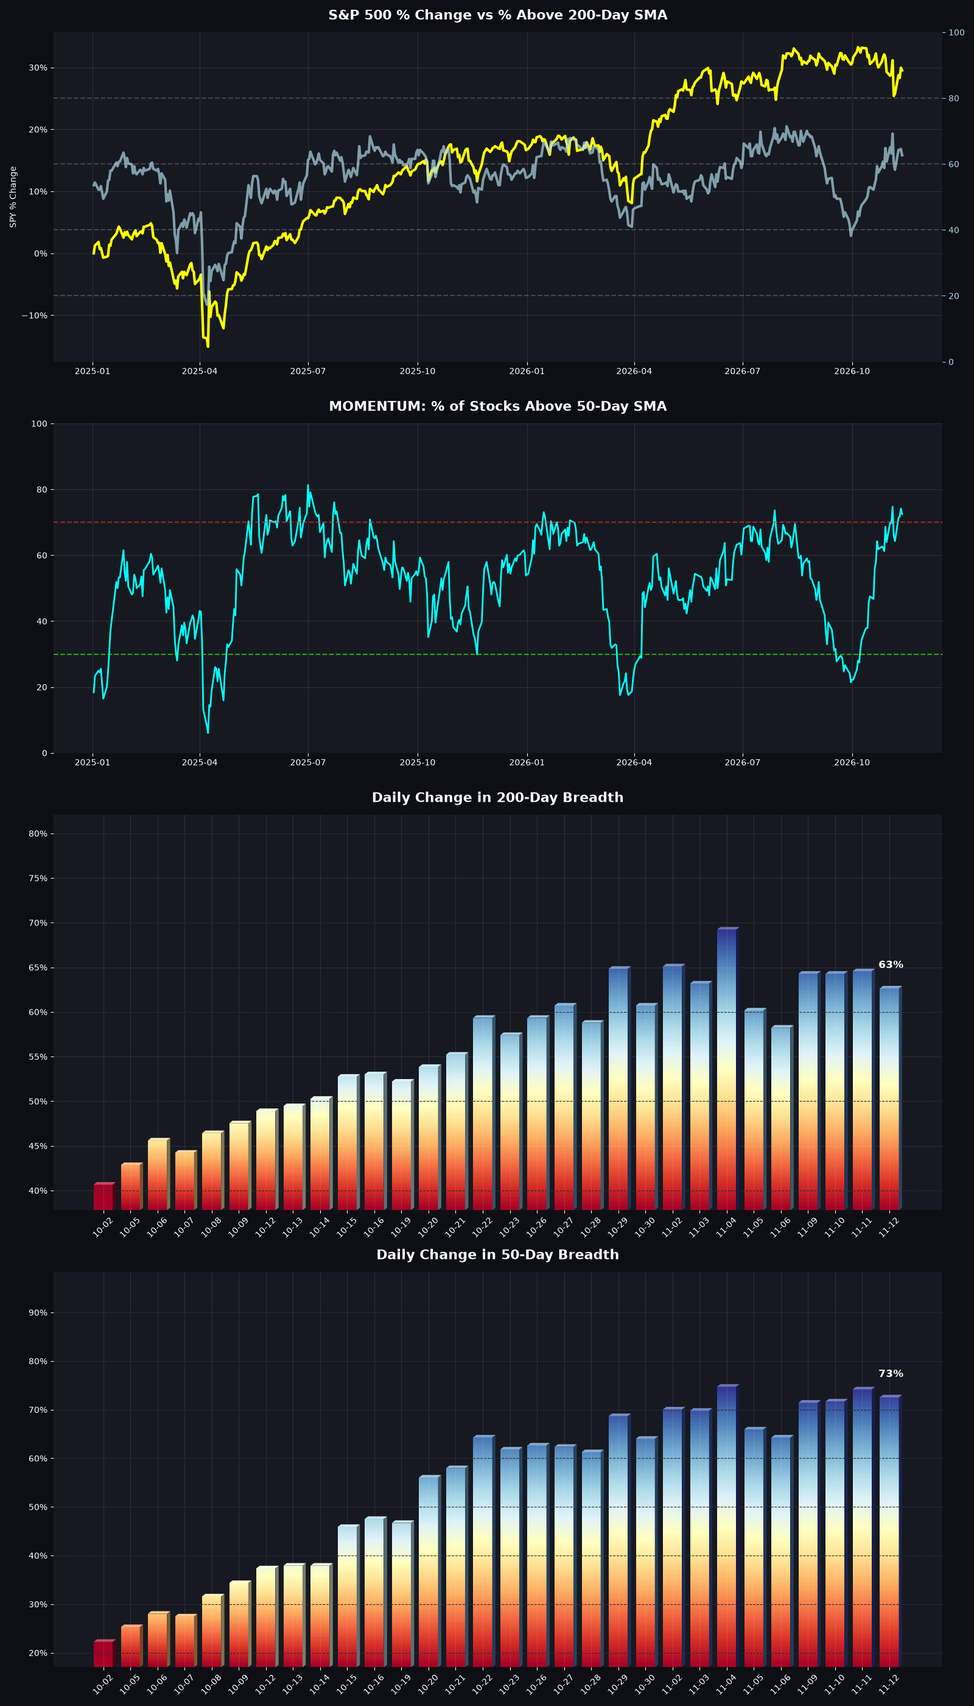
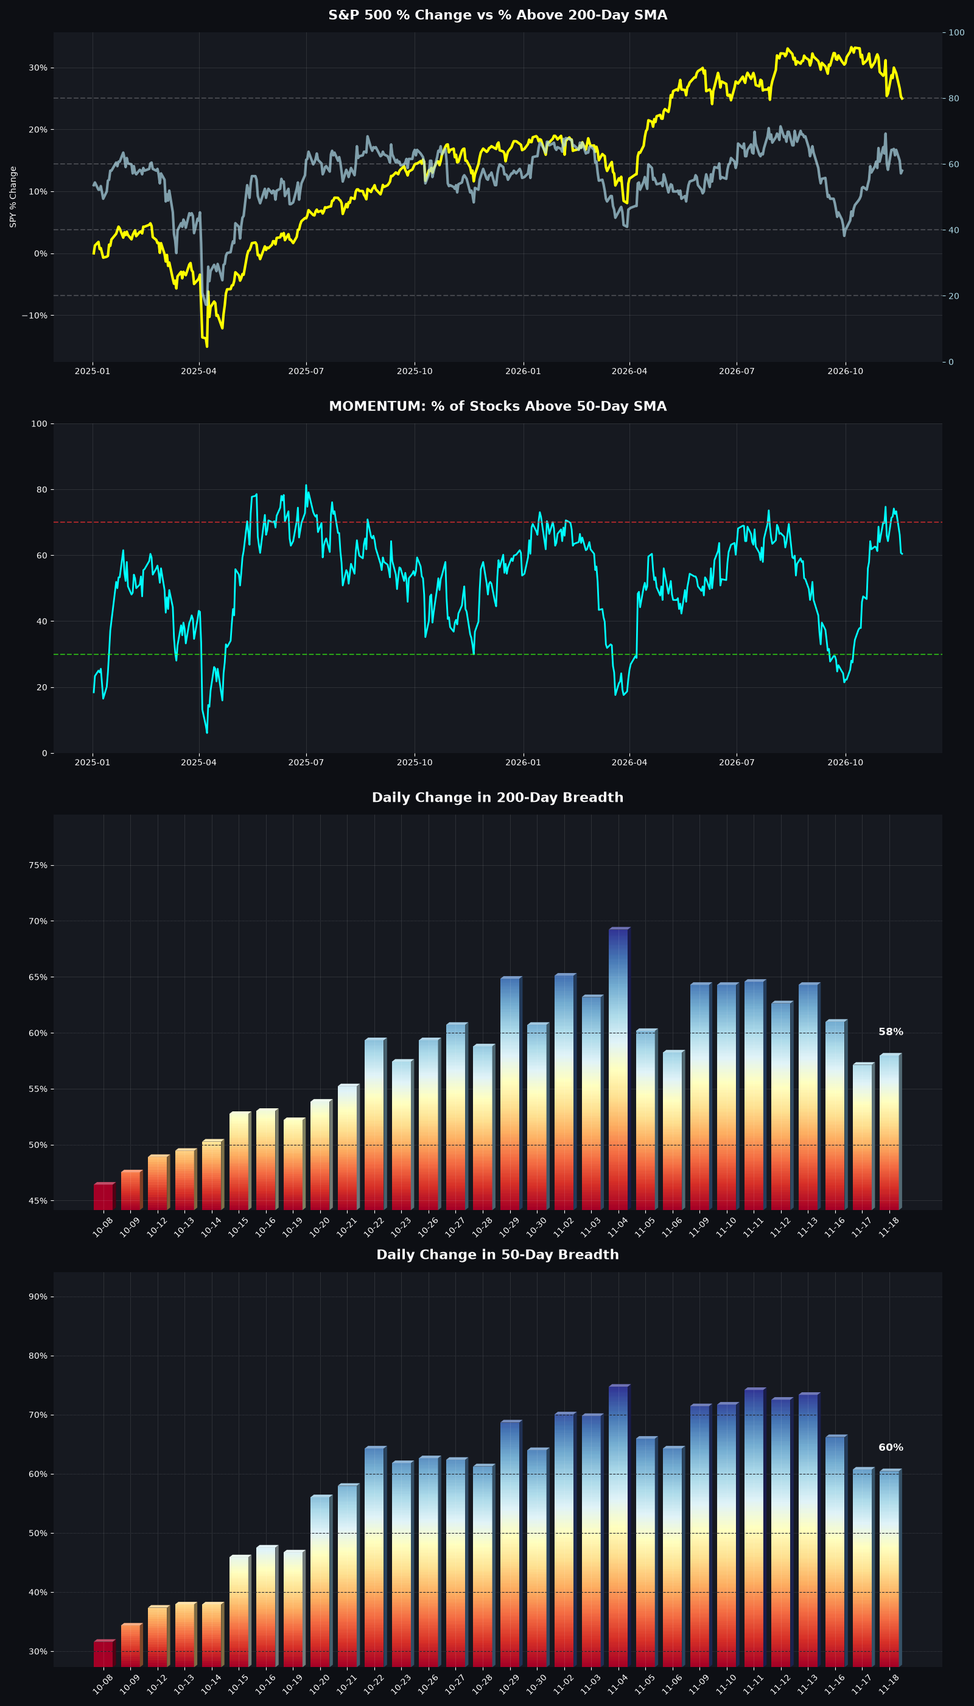
Update charts 2026-11-18

diff --git a/index.html b/index.html
@@ -91,7 +91,7 @@ footer{position:relative;z-index:2;color:#6b7078;font-size:12px;text-align:cente
 <div class="nebula" aria-hidden="true"></div>
 <div class="grid" aria-hidden="true"></div>
 <div class="veil" aria-hidden="true"></div>
-<svg class="bars" aria-hidden="true" viewBox="0 0 180 100" preserveAspectRatio="none"><defs><linearGradient id="bf" x1="0" y1="0" x2="0" y2="1"><stop offset="0" stop-color="#ffffff" stop-opacity="0.95"></stop><stop offset="1" stop-color="#cfe9dd" stop-opacity="0.5"></stop></linearGradient></defs><g fill="url(#bf)"><rect x="0.18" y="76.6" width="0.64" height="23.4"></rect><rect x="1.18" y="81.4" width="0.64" height="18.6"></rect><rect x="2.18" y="78.3" width="0.64" height="21.7"></rect><rect x="3.18" y="75.1" width="0.64" height="24.9"></rect><rect x="4.18" y="68.6" width="0.64" height="31.4"></rect><rect x="5.18" y="86.5" width="0.64" height="13.5"></rect><rect x="6.18" y="79.5" width="0.64" height="20.5"></rect><rect x="7.18" y="62.6" width="0.64" height="37.4"></rect><rect x="8.18" y="81.0" width="0.64" height="19.0"></rect><rect x="9.18" y="89.9" width="0.64" height="10.1"></rect><rect x="10.18" y="88.3" width="0.64" height="11.7"></rect><rect x="11.18" y="73.4" width="0.64" height="26.6"></rect><rect x="12.18" y="75.3" width="0.64" height="24.7"></rect><rect x="13.18" y="81.3" width="0.64" height="18.7"></rect><rect x="14.18" y="80.9" width="0.64" height="19.1"></rect><rect x="15.18" y="70.2" width="0.64" height="29.8"></rect><rect x="16.18" y="73.2" width="0.64" height="26.8"></rect><rect x="17.18" y="79.1" width="0.64" height="20.9"></rect><rect x="18.18" y="90.4" width="0.64" height="9.6"></rect><rect x="19.18" y="64.8" width="0.64" height="35.2"></rect><rect x="20.18" y="88.8" width="0.64" height="11.2"></rect><rect x="21.18" y="65.9" width="0.64" height="34.1"></rect><rect x="22.18" y="14.4" width="0.64" height="85.6"></rect><rect x="23.18" y="75.5" width="0.64" height="24.5"></rect><rect x="24.18" y="83.8" width="0.64" height="16.2"></rect><rect x="25.18" y="85.5" width="0.64" height="14.5"></rect><rect x="26.18" y="66.0" width="0.64" height="34.0"></rect><rect x="27.18" y="72.4" width="0.64" height="27.6"></rect><rect x="28.18" y="56.6" width="0.64" height="43.4"></rect><rect x="29.18" y="69.8" width="0.64" height="30.2"></rect><rect x="30.18" y="73.9" width="0.64" height="26.1"></rect><rect x="31.18" y="76.9" width="0.64" height="23.1"></rect><rect x="32.18" y="87.3" width="0.64" height="12.7"></rect><rect x="33.18" y="78.4" width="0.64" height="21.6"></rect><rect x="34.18" y="66.1" width="0.64" height="33.9"></rect><rect x="35.18" y="52.7" width="0.64" height="47.3"></rect><rect x="36.18" y="18.0" width="0.64" height="82.0"></rect><rect x="37.18" y="63.6" width="0.64" height="36.4"></rect><rect x="38.18" y="47.7" width="0.64" height="52.3"></rect><rect x="39.18" y="59.8" width="0.64" height="40.2"></rect><rect x="40.18" y="41.5" width="0.64" height="58.5"></rect><rect x="41.18" y="66.6" width="0.64" height="33.4"></rect><rect x="42.18" y="64.1" width="0.64" height="35.9"></rect><rect x="43.18" y="69.9" width="0.64" height="30.1"></rect><rect x="44.18" y="58.5" width="0.64" height="41.5"></rect><rect x="45.18" y="51.0" width="0.64" height="49.0"></rect><rect x="46.18" y="36.0" width="0.64" height="64.0"></rect><rect x="47.18" y="44.4" width="0.64" height="55.6"></rect><rect x="48.18" y="42.3" width="0.64" height="57.7"></rect><rect x="49.18" y="29.7" width="0.64" height="70.3"></rect><rect x="50.18" y="46.2" width="0.64" height="53.8"></rect><rect x="51.18" y="42.9" width="0.64" height="57.1"></rect><rect x="52.18" y="29.3" width="0.64" height="70.7"></rect><rect x="53.18" y="19.6" width="0.64" height="80.4"></rect><rect x="54.18" y="34.7" width="0.64" height="65.3"></rect><rect x="55.18" y="39.4" width="0.64" height="60.6"></rect><rect x="56.18" y="40.4" width="0.64" height="59.6"></rect><rect x="57.18" y="38.1" width="0.64" height="61.9"></rect><rect x="58.18" y="66.6" width="0.64" height="33.4"></rect><rect x="59.18" y="54.7" width="0.64" height="45.3"></rect><rect x="60.18" y="49.0" width="0.64" height="51.0"></rect><rect x="61.18" y="46.2" width="0.64" height="53.8"></rect><rect x="62.18" y="48.7" width="0.64" height="51.3"></rect><rect x="63.18" y="48.4" width="0.64" height="51.6"></rect><rect x="64.18" y="62.8" width="0.64" height="37.2"></rect><rect x="65.18" y="53.9" width="0.64" height="46.1"></rect><rect x="66.18" y="46.4" width="0.64" height="53.6"></rect><rect x="67.18" y="51.7" width="0.64" height="48.3"></rect><rect x="68.18" y="49.9" width="0.64" height="50.1"></rect><rect x="69.18" y="70.4" width="0.64" height="29.6"></rect><rect x="70.18" y="65.3" width="0.64" height="34.7"></rect><rect x="71.18" y="44.4" width="0.64" height="55.6"></rect><rect x="72.18" y="56.3" width="0.64" height="43.7"></rect><rect x="73.18" y="75.3" width="0.64" height="24.7"></rect><rect x="74.18" y="79.4" width="0.64" height="20.6"></rect><rect x="75.18" y="54.5" width="0.64" height="45.5"></rect><rect x="76.18" y="54.5" width="0.64" height="45.5"></rect><rect x="77.18" y="61.7" width="0.64" height="38.3"></rect><rect x="78.18" y="56.7" width="0.64" height="43.3"></rect><rect x="79.18" y="45.3" width="0.64" height="54.7"></rect><rect x="80.18" y="25.0" width="0.64" height="75.0"></rect><rect x="81.18" y="60.1" width="0.64" height="39.9"></rect><rect x="82.18" y="75.5" width="0.64" height="24.5"></rect><rect x="83.18" y="57.6" width="0.64" height="42.4"></rect><rect x="84.18" y="3.7" width="0.64" height="96.3"></rect><rect x="85.18" y="57.5" width="0.64" height="42.5"></rect><rect x="86.18" y="48.9" width="0.64" height="51.1"></rect><rect x="87.18" y="65.1" width="0.64" height="34.9"></rect><rect x="88.18" y="72.0" width="0.64" height="28.0"></rect><rect x="89.18" y="0.0" width="0.64" height="100.0"></rect><rect x="90.18" y="62.3" width="0.64" height="37.7"></rect><rect x="91.18" y="41.2" width="0.64" height="58.8"></rect><rect x="92.18" y="66.5" width="0.64" height="33.5"></rect><rect x="93.18" y="53.3" width="0.64" height="46.7"></rect><rect x="94.18" y="65.2" width="0.64" height="34.8"></rect><rect x="95.18" y="70.1" width="0.64" height="29.9"></rect><rect x="96.18" y="65.1" width="0.64" height="34.9"></rect><rect x="97.18" y="51.7" width="0.64" height="48.3"></rect><rect x="98.18" y="40.1" width="0.64" height="59.9"></rect><rect x="99.18" y="30.4" width="0.64" height="69.6"></rect><rect x="100.18" y="39.8" width="0.64" height="60.2"></rect><rect x="101.18" y="48.4" width="0.64" height="51.6"></rect><rect x="102.18" y="63.5" width="0.64" height="36.5"></rect><rect x="103.18" y="0.0" width="0.64" height="100.0"></rect><rect x="104.18" y="45.5" width="0.64" height="54.5"></rect><rect x="105.18" y="48.7" width="0.64" height="51.3"></rect><rect x="106.18" y="59.7" width="0.64" height="40.3"></rect><rect x="107.18" y="53.2" width="0.64" height="46.8"></rect><rect x="108.18" y="58.9" width="0.64" height="41.1"></rect><rect x="109.18" y="61.4" width="0.64" height="38.6"></rect><rect x="110.18" y="48.9" width="0.64" height="51.1"></rect><rect x="111.18" y="76.9" width="0.64" height="23.1"></rect><rect x="112.18" y="49.6" width="0.64" height="50.4"></rect><rect x="113.18" y="67.6" width="0.64" height="32.4"></rect><rect x="114.18" y="62.8" width="0.64" height="37.2"></rect><rect x="115.18" y="74.6" width="0.64" height="25.4"></rect><rect x="116.18" y="55.6" width="0.64" height="44.4"></rect><rect x="117.18" y="60.6" width="0.64" height="39.4"></rect><rect x="118.18" y="65.0" width="0.64" height="35.0"></rect><rect x="119.18" y="46.3" width="0.64" height="53.7"></rect><rect x="120.18" y="42.8" width="0.64" height="57.2"></rect><rect x="121.18" y="58.0" width="0.64" height="42.0"></rect><rect x="122.18" y="4.4" width="0.64" height="95.6"></rect><rect x="123.18" y="46.2" width="0.64" height="53.8"></rect><rect x="124.18" y="55.8" width="0.64" height="44.2"></rect><rect x="125.18" y="68.9" width="0.64" height="31.1"></rect><rect x="126.18" y="60.1" width="0.64" height="39.9"></rect><rect x="127.18" y="55.2" width="0.64" height="44.8"></rect><rect x="128.18" y="67.8" width="0.64" height="32.2"></rect><rect x="129.18" y="66.2" width="0.64" height="33.8"></rect><rect x="130.18" y="85.2" width="0.64" height="14.8"></rect><rect x="131.18" y="68.4" width="0.64" height="31.6"></rect><rect x="132.18" y="76.1" width="0.64" height="23.9"></rect><rect x="133.18" y="28.6" width="0.64" height="71.4"></rect><rect x="134.18" y="63.9" width="0.64" height="36.1"></rect><rect x="135.18" y="46.1" width="0.64" height="53.9"></rect><rect x="136.18" y="44.4" width="0.64" height="55.6"></rect><rect x="137.18" y="5.9" width="0.64" height="94.1"></rect><rect x="138.18" y="43.0" width="0.64" height="57.0"></rect><rect x="139.18" y="64.1" width="0.64" height="35.9"></rect><rect x="140.18" y="64.6" width="0.64" height="35.4"></rect><rect x="141.18" y="72.4" width="0.64" height="27.6"></rect><rect x="142.18" y="58.0" width="0.64" height="42.0"></rect><rect x="143.18" y="53.3" width="0.64" height="46.7"></rect><rect x="144.18" y="65.0" width="0.64" height="35.0"></rect><rect x="145.18" y="70.6" width="0.64" height="29.4"></rect><rect x="146.18" y="81.9" width="0.64" height="18.1"></rect><rect x="147.18" y="90.7" width="0.64" height="9.3"></rect><rect x="148.18" y="66.3" width="0.64" height="33.7"></rect><rect x="149.18" y="79.4" width="0.64" height="20.6"></rect><rect x="150.18" y="54.5" width="0.64" height="45.5"></rect><rect x="151.18" y="65.1" width="0.64" height="34.9"></rect><rect x="152.18" y="50.4" width="0.64" height="49.6"></rect><rect x="153.18" y="60.0" width="0.64" height="40.0"></rect><rect x="154.18" y="67.6" width="0.64" height="32.4"></rect><rect x="155.18" y="60.9" width="0.64" height="39.1"></rect><rect x="156.18" y="60.6" width="0.64" height="39.4"></rect><rect x="157.18" y="51.1" width="0.64" height="48.9"></rect><rect x="158.18" y="57.4" width="0.64" height="42.6"></rect><rect x="159.18" y="63.9" width="0.64" height="36.1"></rect><rect x="160.18" y="69.5" width="0.64" height="30.5"></rect><rect x="161.18" y="38.6" width="0.64" height="61.4"></rect><rect x="162.18" y="34.4" width="0.64" height="65.6"></rect><rect x="163.18" y="57.8" width="0.64" height="42.2"></rect><rect x="164.18" y="35.9" width="0.64" height="64.1"></rect><rect x="165.18" y="61.0" width="0.64" height="39.0"></rect><rect x="166.18" y="58.6" width="0.64" height="41.4"></rect><rect x="167.18" y="49.7" width="0.64" height="50.3"></rect><rect x="168.18" y="56.3" width="0.64" height="43.7"></rect><rect x="169.18" y="57.7" width="0.64" height="42.3"></rect><rect x="170.18" y="59.4" width="0.64" height="40.6"></rect><rect x="171.18" y="55.2" width="0.64" height="44.8"></rect><rect x="172.18" y="50.0" width="0.64" height="50.0"></rect><rect x="173.18" y="45.4" width="0.64" height="54.6"></rect><rect x="174.18" y="41.8" width="0.64" height="58.2"></rect><rect x="175.18" y="54.1" width="0.64" height="45.9"></rect><rect x="176.18" y="41.9" width="0.64" height="58.1"></rect><rect x="177.18" y="62.8" width="0.64" height="37.2"></rect><rect x="178.18" y="48.5" width="0.64" height="51.5"></rect><rect x="179.18" y="46.9" width="0.64" height="53.1"></rect></g></svg>
+<svg class="bars" aria-hidden="true" viewBox="0 0 180 100" preserveAspectRatio="none"><defs><linearGradient id="bf" x1="0" y1="0" x2="0" y2="1"><stop offset="0" stop-color="#ffffff" stop-opacity="0.95"></stop><stop offset="1" stop-color="#cfe9dd" stop-opacity="0.5"></stop></linearGradient></defs><g fill="url(#bf)"><rect x="0.18" y="64.1" width="0.64" height="35.9"></rect><rect x="1.18" y="84.8" width="0.64" height="15.2"></rect><rect x="2.18" y="69.9" width="0.64" height="30.1"></rect><rect x="3.18" y="32.6" width="0.64" height="67.4"></rect><rect x="4.18" y="92.7" width="0.64" height="7.3"></rect><rect x="5.18" y="85.2" width="0.64" height="14.8"></rect><rect x="6.18" y="78.2" width="0.64" height="21.8"></rect><rect x="7.18" y="76.4" width="0.64" height="23.6"></rect><rect x="8.18" y="74.6" width="0.64" height="25.4"></rect><rect x="9.18" y="72.5" width="0.64" height="27.5"></rect><rect x="10.18" y="61.2" width="0.64" height="38.8"></rect><rect x="11.18" y="69.0" width="0.64" height="31.0"></rect><rect x="12.18" y="72.9" width="0.64" height="27.1"></rect><rect x="13.18" y="84.9" width="0.64" height="15.1"></rect><rect x="14.18" y="85.8" width="0.64" height="14.2"></rect><rect x="15.18" y="66.0" width="0.64" height="34.0"></rect><rect x="16.18" y="27.1" width="0.64" height="72.9"></rect><rect x="17.18" y="48.4" width="0.64" height="51.6"></rect><rect x="18.18" y="58.0" width="0.64" height="42.0"></rect><rect x="19.18" y="71.5" width="0.64" height="28.5"></rect><rect x="20.18" y="67.2" width="0.64" height="32.8"></rect><rect x="21.18" y="66.1" width="0.64" height="33.9"></rect><rect x="22.18" y="73.4" width="0.64" height="26.6"></rect><rect x="23.18" y="75.2" width="0.64" height="24.8"></rect><rect x="24.18" y="70.8" width="0.64" height="29.2"></rect><rect x="25.18" y="75.9" width="0.64" height="24.1"></rect><rect x="26.18" y="70.6" width="0.64" height="29.4"></rect><rect x="27.18" y="25.1" width="0.64" height="74.9"></rect><rect x="28.18" y="82.4" width="0.64" height="17.6"></rect><rect x="29.18" y="70.4" width="0.64" height="29.6"></rect><rect x="30.18" y="84.0" width="0.64" height="16.0"></rect><rect x="31.18" y="69.0" width="0.64" height="31.0"></rect><rect x="32.18" y="64.8" width="0.64" height="35.2"></rect><rect x="33.18" y="82.3" width="0.64" height="17.7"></rect><rect x="34.18" y="64.3" width="0.64" height="35.7"></rect><rect x="35.18" y="84.3" width="0.64" height="15.7"></rect><rect x="36.18" y="89.6" width="0.64" height="10.4"></rect><rect x="37.18" y="15.6" width="0.64" height="84.4"></rect><rect x="38.18" y="88.3" width="0.64" height="11.7"></rect><rect x="39.18" y="89.4" width="0.64" height="10.6"></rect><rect x="40.18" y="89.4" width="0.64" height="10.6"></rect><rect x="41.18" y="92.3" width="0.64" height="7.7"></rect><rect x="42.18" y="81.6" width="0.64" height="18.4"></rect><rect x="43.18" y="84.4" width="0.64" height="15.6"></rect><rect x="44.18" y="92.2" width="0.64" height="7.8"></rect><rect x="45.18" y="81.7" width="0.64" height="18.3"></rect><rect x="46.18" y="75.9" width="0.64" height="24.1"></rect><rect x="47.18" y="56.8" width="0.64" height="43.2"></rect><rect x="48.18" y="67.7" width="0.64" height="32.3"></rect><rect x="49.18" y="80.2" width="0.64" height="19.8"></rect><rect x="50.18" y="65.7" width="0.64" height="34.3"></rect><rect x="51.18" y="58.8" width="0.64" height="41.2"></rect><rect x="52.18" y="61.5" width="0.64" height="38.5"></rect><rect x="53.18" y="61.5" width="0.64" height="38.5"></rect><rect x="54.18" y="58.6" width="0.64" height="41.4"></rect><rect x="55.18" y="69.8" width="0.64" height="30.2"></rect><rect x="56.18" y="50.4" width="0.64" height="49.6"></rect><rect x="57.18" y="84.9" width="0.64" height="15.1"></rect><rect x="58.18" y="41.3" width="0.64" height="58.7"></rect><rect x="59.18" y="81.6" width="0.64" height="18.4"></rect><rect x="60.18" y="83.9" width="0.64" height="16.1"></rect><rect x="61.18" y="65.5" width="0.64" height="34.5"></rect><rect x="62.18" y="60.4" width="0.64" height="39.6"></rect><rect x="63.18" y="76.1" width="0.64" height="23.9"></rect><rect x="64.18" y="23.5" width="0.64" height="76.5"></rect><rect x="65.18" y="73.1" width="0.64" height="26.9"></rect><rect x="66.18" y="57.3" width="0.64" height="42.7"></rect><rect x="67.18" y="57.6" width="0.64" height="42.4"></rect><rect x="68.18" y="41.9" width="0.64" height="58.1"></rect><rect x="69.18" y="39.6" width="0.64" height="60.4"></rect><rect x="70.18" y="35.2" width="0.64" height="64.8"></rect><rect x="71.18" y="29.9" width="0.64" height="70.1"></rect><rect x="72.18" y="35.5" width="0.64" height="64.5"></rect><rect x="73.18" y="40.7" width="0.64" height="59.3"></rect><rect x="74.18" y="36.2" width="0.64" height="63.8"></rect><rect x="75.18" y="19.2" width="0.64" height="80.8"></rect><rect x="76.18" y="25.6" width="0.64" height="74.4"></rect><rect x="77.18" y="30.9" width="0.64" height="69.1"></rect><rect x="78.18" y="34.9" width="0.64" height="65.1"></rect><rect x="79.18" y="22.6" width="0.64" height="77.4"></rect><rect x="80.18" y="25.2" width="0.64" height="74.8"></rect><rect x="81.18" y="28.7" width="0.64" height="71.3"></rect><rect x="82.18" y="30.8" width="0.64" height="69.2"></rect><rect x="83.18" y="33.5" width="0.64" height="66.5"></rect><rect x="84.18" y="31.6" width="0.64" height="68.4"></rect><rect x="85.18" y="40.7" width="0.64" height="59.3"></rect><rect x="86.18" y="42.8" width="0.64" height="57.2"></rect><rect x="87.18" y="58.0" width="0.64" height="42.0"></rect><rect x="88.18" y="81.5" width="0.64" height="18.5"></rect><rect x="89.18" y="66.1" width="0.64" height="33.9"></rect><rect x="90.18" y="65.9" width="0.64" height="34.1"></rect><rect x="91.18" y="94.0" width="0.64" height="6.0"></rect><rect x="92.18" y="82.2" width="0.64" height="17.8"></rect><rect x="93.18" y="41.9" width="0.64" height="58.1"></rect><rect x="94.18" y="89.5" width="0.64" height="10.5"></rect><rect x="95.18" y="75.0" width="0.64" height="25.0"></rect><rect x="96.18" y="86.2" width="0.64" height="13.8"></rect><rect x="97.18" y="77.0" width="0.64" height="23.0"></rect><rect x="98.18" y="63.8" width="0.64" height="36.2"></rect><rect x="99.18" y="77.1" width="0.64" height="22.9"></rect><rect x="100.18" y="66.6" width="0.64" height="33.4"></rect><rect x="101.18" y="72.9" width="0.64" height="27.1"></rect><rect x="102.18" y="62.4" width="0.64" height="37.6"></rect><rect x="103.18" y="79.4" width="0.64" height="20.6"></rect><rect x="104.18" y="93.7" width="0.64" height="6.3"></rect><rect x="105.18" y="70.7" width="0.64" height="29.3"></rect><rect x="106.18" y="81.8" width="0.64" height="18.2"></rect><rect x="107.18" y="17.5" width="0.64" height="82.5"></rect><rect x="108.18" y="62.7" width="0.64" height="37.3"></rect><rect x="109.18" y="57.3" width="0.64" height="42.7"></rect><rect x="110.18" y="66.0" width="0.64" height="34.0"></rect><rect x="111.18" y="60.5" width="0.64" height="39.5"></rect><rect x="112.18" y="53.9" width="0.64" height="46.1"></rect><rect x="113.18" y="71.1" width="0.64" height="28.9"></rect><rect x="114.18" y="62.5" width="0.64" height="37.5"></rect><rect x="115.18" y="66.5" width="0.64" height="33.5"></rect><rect x="116.18" y="73.4" width="0.64" height="26.6"></rect><rect x="117.18" y="80.2" width="0.64" height="19.8"></rect><rect x="118.18" y="69.3" width="0.64" height="30.7"></rect><rect x="119.18" y="82.0" width="0.64" height="18.0"></rect><rect x="120.18" y="71.3" width="0.64" height="28.7"></rect><rect x="121.18" y="92.2" width="0.64" height="7.8"></rect><rect x="122.18" y="86.8" width="0.64" height="13.2"></rect><rect x="123.18" y="80.3" width="0.64" height="19.7"></rect><rect x="124.18" y="73.3" width="0.64" height="26.7"></rect><rect x="125.18" y="89.6" width="0.64" height="10.4"></rect><rect x="126.18" y="88.4" width="0.64" height="11.6"></rect><rect x="127.18" y="67.1" width="0.64" height="32.9"></rect><rect x="128.18" y="81.7" width="0.64" height="18.3"></rect><rect x="129.18" y="4.1" width="0.64" height="95.9"></rect><rect x="130.18" y="57.8" width="0.64" height="42.2"></rect><rect x="131.18" y="76.1" width="0.64" height="23.9"></rect><rect x="132.18" y="31.6" width="0.64" height="68.4"></rect><rect x="133.18" y="80.0" width="0.64" height="20.0"></rect><rect x="134.18" y="29.9" width="0.64" height="70.1"></rect><rect x="135.18" y="66.0" width="0.64" height="34.0"></rect><rect x="136.18" y="76.5" width="0.64" height="23.5"></rect><rect x="137.18" y="77.5" width="0.64" height="22.5"></rect><rect x="138.18" y="86.4" width="0.64" height="13.6"></rect><rect x="139.18" y="68.4" width="0.64" height="31.6"></rect><rect x="140.18" y="90.7" width="0.64" height="9.3"></rect><rect x="141.18" y="74.3" width="0.64" height="25.7"></rect><rect x="142.18" y="82.0" width="0.64" height="18.0"></rect><rect x="143.18" y="77.1" width="0.64" height="22.9"></rect><rect x="144.18" y="68.3" width="0.64" height="31.7"></rect><rect x="145.18" y="63.2" width="0.64" height="36.8"></rect><rect x="146.18" y="65.5" width="0.64" height="34.5"></rect><rect x="147.18" y="57.1" width="0.64" height="42.9"></rect><rect x="148.18" y="46.9" width="0.64" height="53.1"></rect><rect x="149.18" y="43.1" width="0.64" height="56.9"></rect><rect x="150.18" y="58.0" width="0.64" height="42.0"></rect><rect x="151.18" y="62.0" width="0.64" height="38.0"></rect><rect x="152.18" y="60.2" width="0.64" height="39.8"></rect><rect x="153.18" y="60.7" width="0.64" height="39.3"></rect><rect x="154.18" y="63.9" width="0.64" height="36.1"></rect><rect x="155.18" y="72.5" width="0.64" height="27.5"></rect><rect x="156.18" y="56.7" width="0.64" height="43.3"></rect><rect x="157.18" y="47.5" width="0.64" height="52.5"></rect><rect x="158.18" y="85.1" width="0.64" height="14.9"></rect><rect x="159.18" y="49.0" width="0.64" height="51.0"></rect><rect x="160.18" y="69.4" width="0.64" height="30.6"></rect><rect x="161.18" y="56.3" width="0.64" height="43.7"></rect><rect x="162.18" y="52.1" width="0.64" height="47.9"></rect><rect x="163.18" y="62.7" width="0.64" height="37.3"></rect><rect x="164.18" y="45.2" width="0.64" height="54.8"></rect><rect x="165.18" y="45.4" width="0.64" height="54.6"></rect><rect x="166.18" y="15.0" width="0.64" height="85.0"></rect><rect x="167.18" y="34.1" width="0.64" height="65.9"></rect><rect x="168.18" y="40.6" width="0.64" height="59.4"></rect><rect x="169.18" y="33.0" width="0.64" height="67.0"></rect><rect x="170.18" y="35.2" width="0.64" height="64.8"></rect><rect x="171.18" y="36.4" width="0.64" height="63.6"></rect><rect x="172.18" y="53.1" width="0.64" height="46.9"></rect><rect x="173.18" y="26.1" width="0.64" height="73.9"></rect><rect x="174.18" y="33.2" width="0.64" height="66.8"></rect><rect x="175.18" y="46.9" width="0.64" height="53.1"></rect><rect x="176.18" y="28.1" width="0.64" height="71.9"></rect><rect x="177.18" y="37.8" width="0.64" height="62.2"></rect><rect x="178.18" y="42.5" width="0.64" height="57.5"></rect><rect x="179.18" y="60.7" width="0.64" height="39.3"></rect></g></svg>
 <header>
 <a class="brand" href="/">
 <img src="logo.png" alt="">

diff --git a/market-breadth/index.html b/market-breadth/index.html
@@ -20,15 +20,15 @@
 <!-- JTD-ETF-BTN --><link href="https://fonts.googleapis.com/css2?family=Space+Grotesk:wght@700&display=swap" rel="stylesheet"><div style="margin:16px 20px 18px 20px;text-align:left;"><a href="https://youtube.com/playlist?list=PLW1LTqRK5vOw" target="_blank" rel="noopener" style="display:inline-flex;align-items:center;justify-content:center;min-height:36px;padding:0 18px;border-radius:999px;border:1px solid #d9fbe8;font:700 12px 'Space Grotesk',system-ui,sans-serif;letter-spacing:.04em;text-transform:uppercase;text-decoration:none;color:#06150d;white-space:nowrap;background:linear-gradient(180deg,#7ff0b0 0%,#3ccf7e 46%,#26a862 54%,#38c678 100%);box-shadow:inset 0 1px 0 rgba(255,255,255,.7),inset 0 -2px 4px rgba(0,60,30,.45),0 0 0 2px #0b0d11,0 0 0 3px rgba(120,240,170,.5),0 0 12px rgba(60,207,126,.4);text-shadow:0 1px 0 rgba(255,255,255,.35);">How to read Market Breadth</a></div><!-- /JTD-ETF-BTN -->
 
 <h1>Market Breadth: S&P 500 Stocks Above 50 & 200-Day Averages</h1>
-<p>Updated November 13, 2026 08:11 PM ET. Data through November 12, 2026.
+<p>Updated November 18, 2026 02:18 PM ET. Data through November 18, 2026.
 Breadth measured across 364 of 372 large-cap S&amp;P 500 stocks with available data.
-SPY +29.5% since Jan 01, 2025.</p>
+SPY +25.0% since Jan 01, 2025.</p>
 <table>
 <tr><th>Measure</th><th>Latest</th><th>1-week change (pts)</th><th>1-month change (pts)</th></tr>
-<tr><td>% above 200-day SMA</td><td>63%</td><td>+2</td><td>+12</td></tr>
-<tr><td>% above 50-day SMA</td><td>73%</td><td>+7</td><td>+35</td></tr>
+<tr><td>% above 200-day SMA</td><td>58%</td><td>-7</td><td>+4</td></tr>
+<tr><td>% above 50-day SMA</td><td>60%</td><td>-14</td><td>+4</td></tr>
 </table>
-<a href="breadth.png?v=1794618686"><img src="breadth.png?v=1794618686" alt="Market breadth charts"></a>
+<a href="breadth.png?v=1795029491"><img src="breadth.png?v=1795029491" alt="Market breadth charts"></a>
 <footer>Just the Data. Research only, not investment advice.</footer>
 </body>
 </html>
